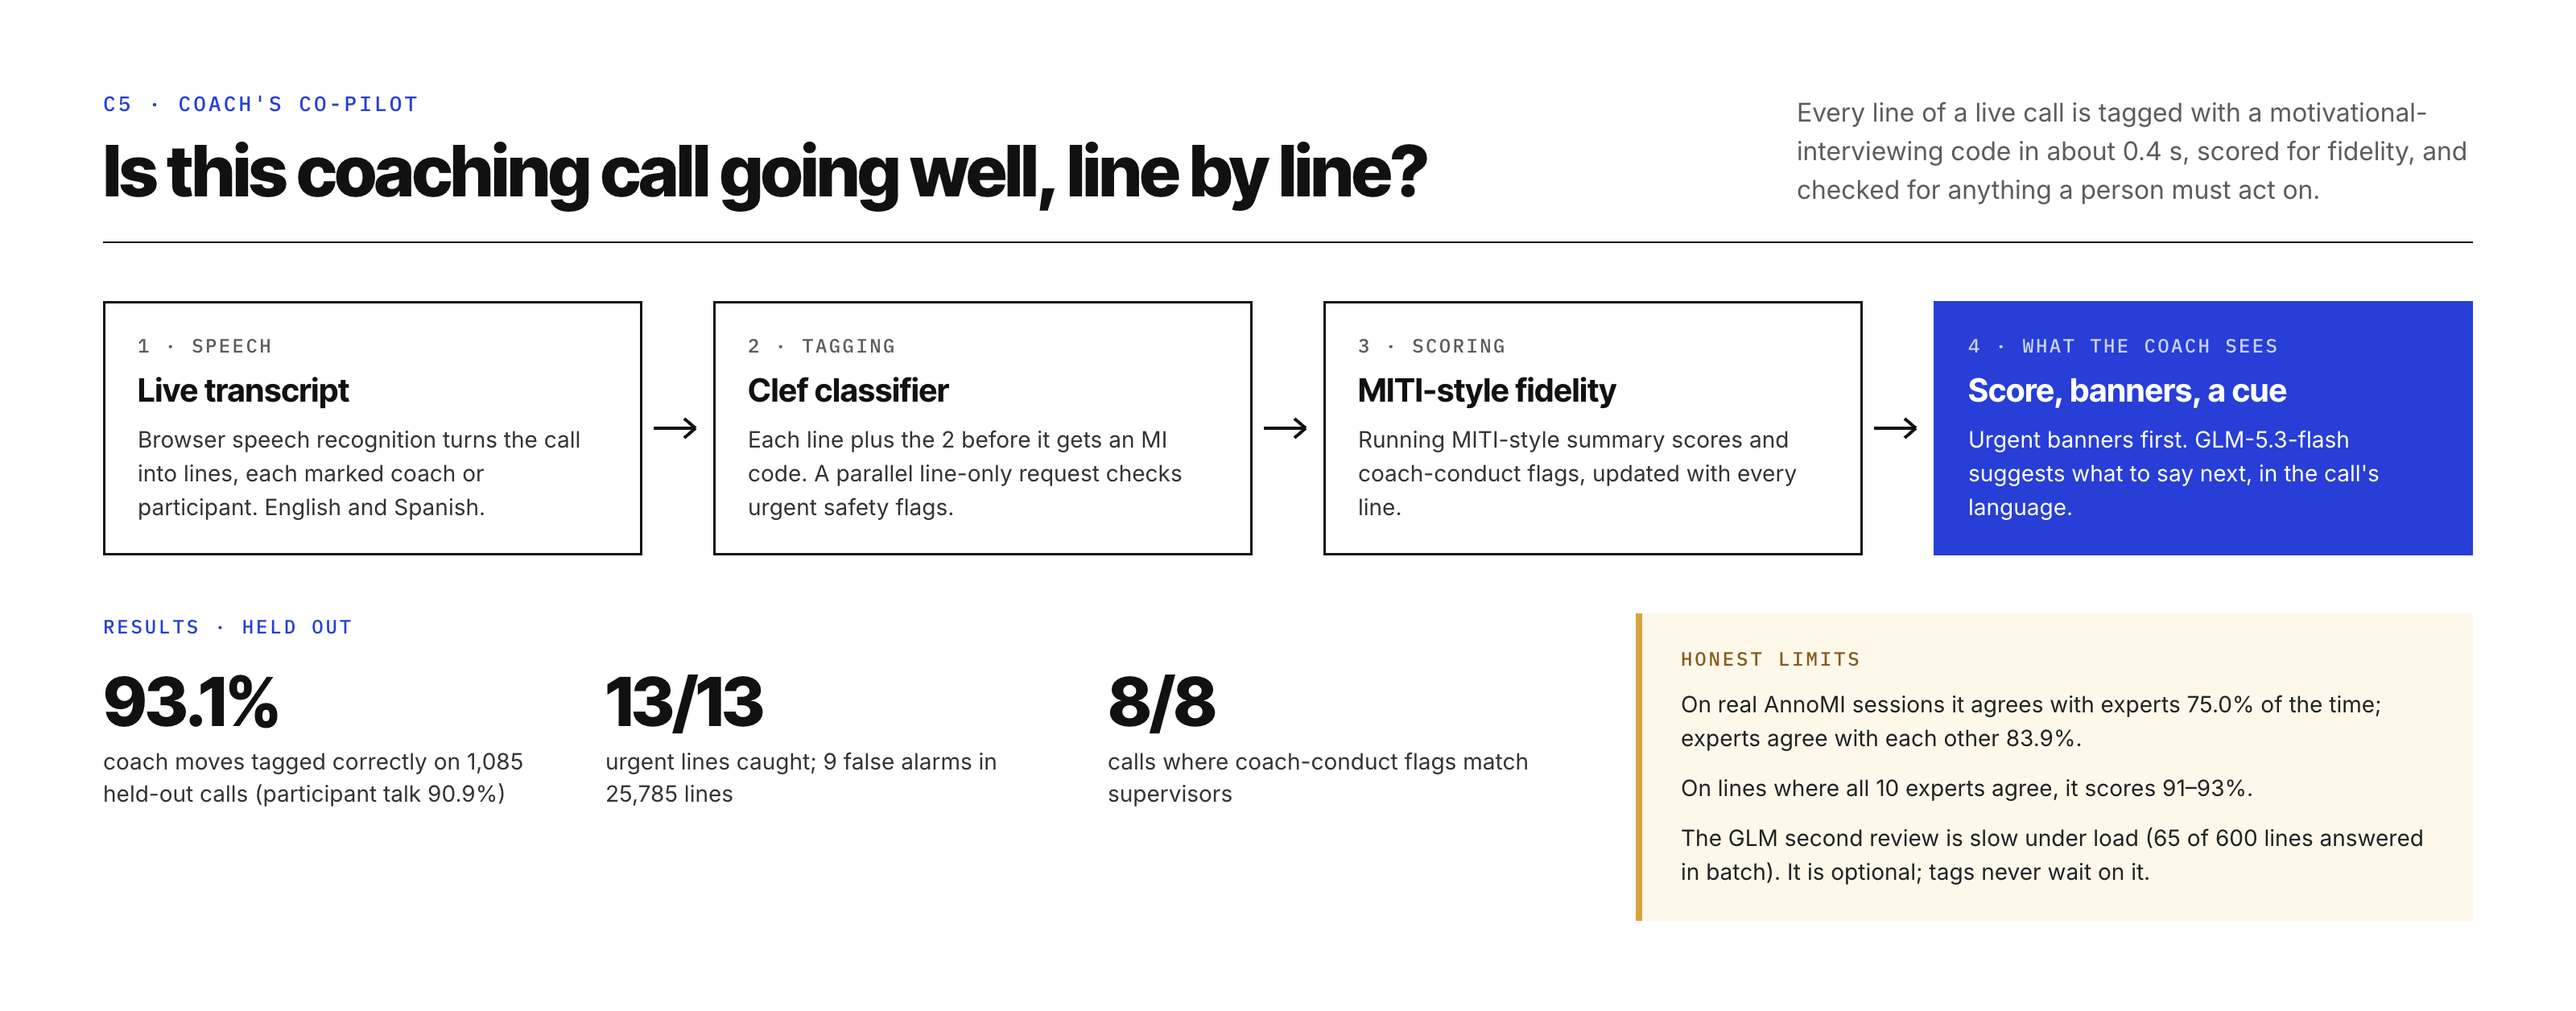
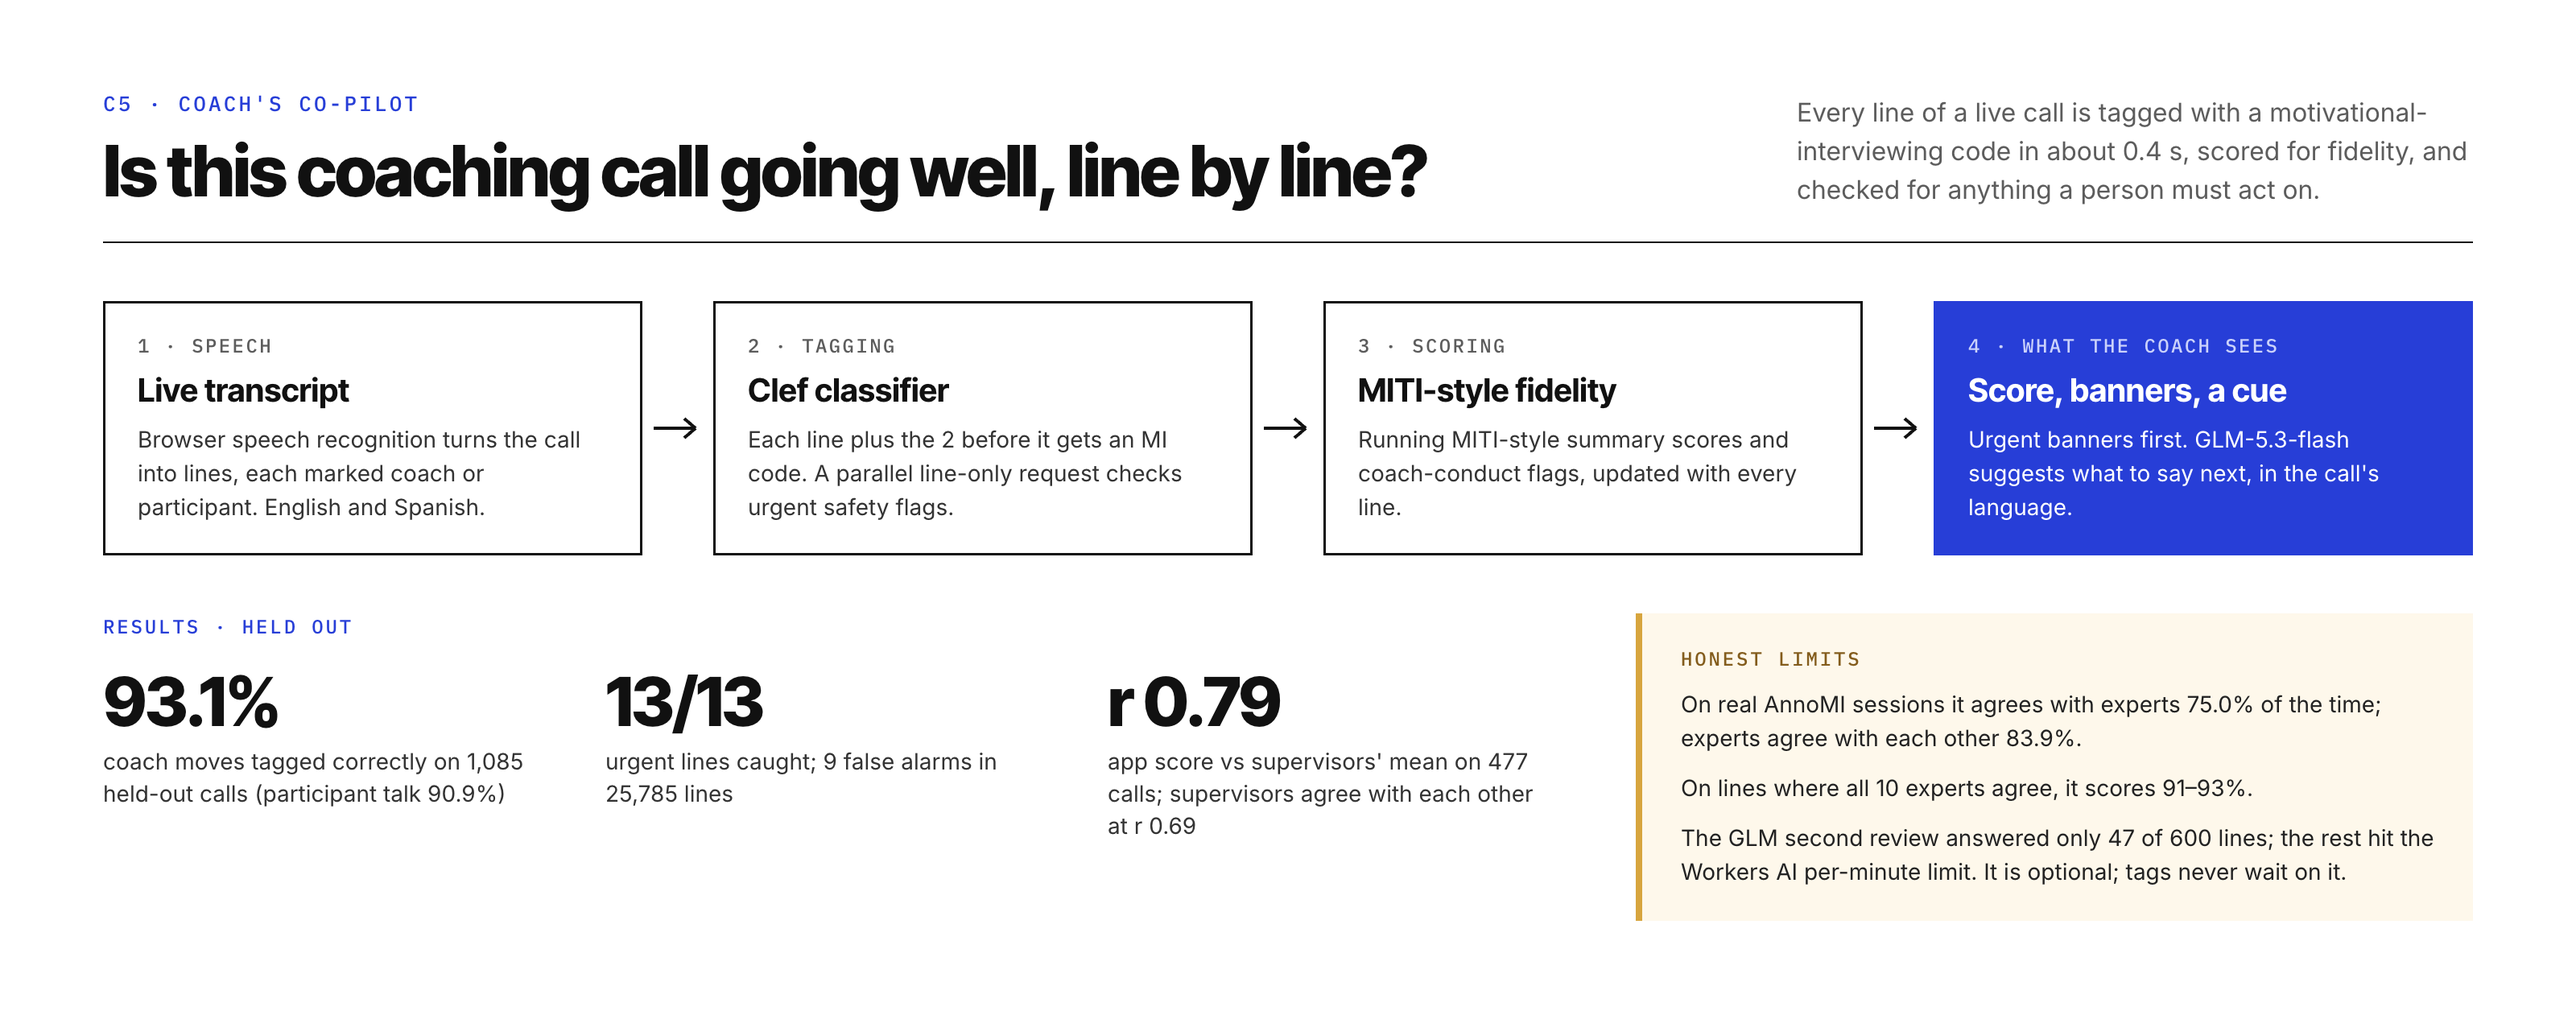
docs: C5 supervisor agreement and GLM limit; bump coach-copilot

Changed region(s): [[0.4375, 0.6521, 0.5938, 0.8384], [0.6562, 0.8073, 0.9375, 0.8694]]

diff --git a/README.md b/README.md
@@ -30,7 +30,7 @@ Every number in the product traces to a validation run in its module's repo: hel
 | C1 Care-team risk | C1 acute-care risk | Calibrated random forest on MEPS survivors, picked from 48 candidates; risk tiers, per-survivor drivers, fairness flags, red flags for the care team today | Out-of-fold: log loss 0.539 vs 0.606 baseline (significant); calibration slope 1.10 vs 0.45; AUROC 0.711 vs 0.672 (not significant) | [`c1-acute-risk`](modules/c1-acute-risk) |
 | C3 Bad Week Radar | C3 wearables | Forecasts rough patches 2–7 days early from wearables, lagged check-ins and the treatment calendar; urgent ER/admission tier with a "call today" action | Held out, 5% alert budget: 48% of patches caught early vs 36% calendar-only; ER/admissions 36% vs 22% | [`c3-rough-patch`](modules/c3-rough-patch) |
 | C4 Glucose Guide | C4 dose & timing | Double ML, within person: evening walks, late dinners and overnight fasting vs blood sugar; personal advice only when the person's own data supports it | Evening walk −18.3 mg/dL after dinner (CI 16.6–20.1); each claim tagged with a real-data check | [`c4-glucose-guide`](modules/c4-glucose-guide) |
-| C5 Coach's Co-pilot | C5 coaching conversations | Tags every call line with an MI code in ~0.4 s (Cloudflare Clef), live fidelity score, safety banners, GLM coaching cues | Held out: 93.1% coach moves, 90.9% participant talk on 1,085 calls; 13/13 urgent lines caught | [`coach-copilot`](modules/coach-copilot) |
+| C5 Coach's Co-pilot | C5 coaching conversations | Tags every call line with an MI code in ~0.4 s (Cloudflare Clef), live fidelity score, safety banners, GLM coaching cues | Held out: 93.1% coach moves, 90.9% participant talk on 1,085 calls; 13/13 urgent lines caught; call score vs supervisors r 0.79 (supervisors vs each other r 0.69) | [`coach-copilot`](modules/coach-copilot) |
 | Challenge MCP | all | 13 read-only tools over every module for ChatGPT and Claude, incl. "score this conversation" | E2E 67/67 with the official MCP client | [`challenge-mcp`](modules/challenge-mcp) |
 
 Who owns what: the challenge modules are engines and APIs only (model, data pipeline, validation, `CONTRACT.md`). Patient 360 owns everything users see.
